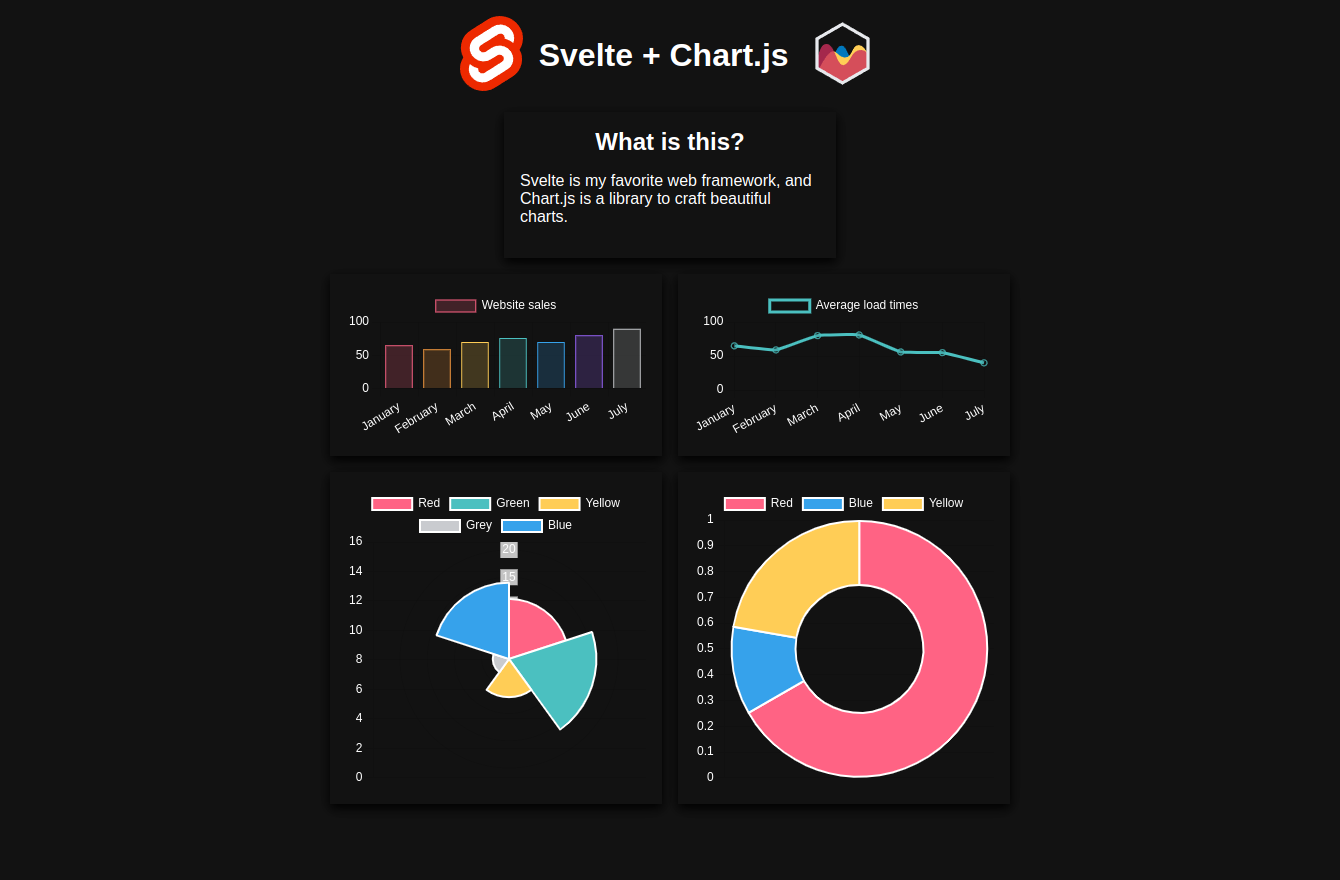
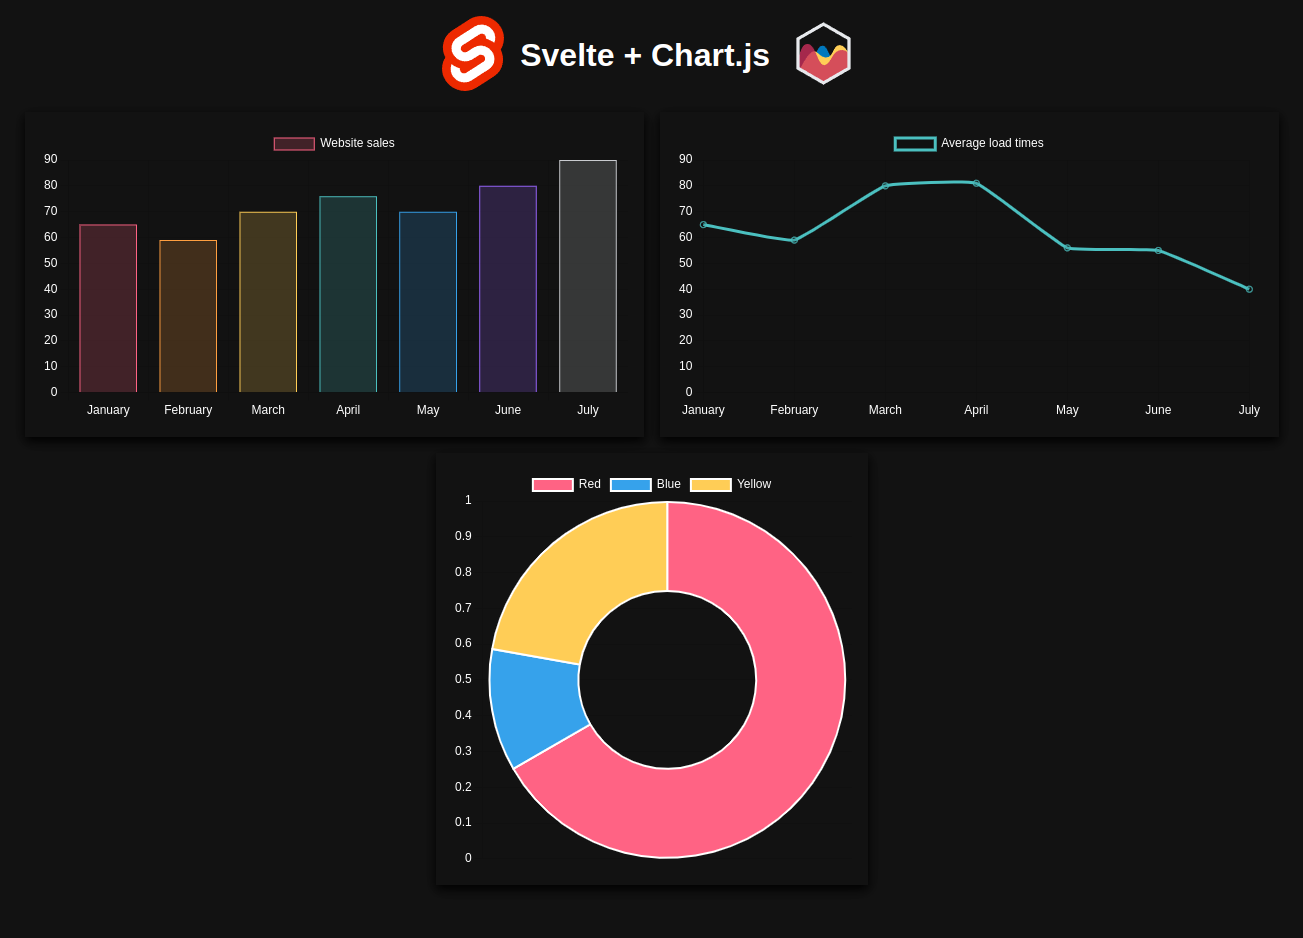
Reduce text and increase size of chartjs graphs

diff --git a/svelte-chartjs/src/routes/+page.svelte b/svelte-chartjs/src/routes/+page.svelte
@@ -3,19 +3,22 @@
 	import chartjs from './chartjs-logo.svg';
 	import { Chart, type ChartItem, LinearScale, registerables } from 'chart.js';
 	import { onMount } from 'svelte';
+	Chart.register(...registerables);
+	Chart.defaults.color = 'white';
 
 	let barChart: HTMLCanvasElement;
 	let lineChart: HTMLCanvasElement;
 	let doughnutChart: HTMLCanvasElement;
-	let polarChart: HTMLCanvasElement;
 
 	onMount(() => {
-		Chart.register(...registerables);
-		Chart.defaults.color = 'white';
-
 		const labels = ['January', 'February', 'March', 'April', 'May', 'June', 'July'];
 
-		new Chart(barChart, {
+		const barContext = barChart.getContext('2d');
+		const lineContext = lineChart.getContext('2d');
+		const doughnutContext = doughnutChart.getContext('2d');
+		if (!barContext || !lineContext || !doughnutContext) return;
+
+		new Chart(barContext, {
 			type: 'bar',
 			data: {
 				labels,
@@ -54,7 +57,7 @@
 			}
 		});
 
-		new Chart(lineChart, {
+		new Chart(lineContext, {
 			type: 'line',
 			data: {
 				labels: labels,
@@ -77,7 +80,7 @@
 			}
 		});
 
-		new Chart(doughnutChart, {
+		new Chart(doughnutContext, {
 			type: 'doughnut',
 			data: {
 				labels: ['Red', 'Blue', 'Yellow'],
@@ -98,33 +101,6 @@
 				}
 			}
 		});
-
-		new Chart(polarChart, {
-			type: 'polarArea',
-			data: {
-				labels: ['Red', 'Green', 'Yellow', 'Grey', 'Blue'],
-				datasets: [
-					{
-						label: 'My First Dataset',
-						data: [11, 16, 7, 3, 14],
-						backgroundColor: [
-							'rgb(255, 99, 132)',
-							'rgb(75, 192, 192)',
-							'rgb(255, 205, 86)',
-							'rgb(201, 203, 207)',
-							'rgb(54, 162, 235)'
-						]
-					}
-				]
-			},
-			options: {
-				scales: {
-					y: {
-						beginAtZero: true
-					}
-				}
-			}
-		});
 	});
 </script>
 
@@ -134,24 +110,17 @@
 		<h1>Svelte + Chart.js</h1>
 		<img src={chartjs} alt="Chart.js logo" height="75" />
 	</header>
-	<div class="card">
-		<h2>What is this?</h2>
-		<p>Svelte is my favorite web framework, and Chart.js is a library to craft beautiful charts.</p>
-	</div>
 
 	<div class="charts">
-		<div class="card">
+		<div class="card bar">
 			<canvas bind:this={barChart} />
 		</div>
-		<div class="card">
+		<div class="card bar">
 			<canvas bind:this={lineChart} />
 		</div>
 	</div>
 
 	<div class="charts">
-		<div class="card">
-			<canvas bind:this={polarChart} />
-		</div>
 		<div class="card">
 			<canvas bind:this={doughnutChart} />
 		</div>
@@ -163,16 +132,13 @@
 		font-family: 'Helvetica Neue', 'Helvetica', 'Arial', sans-serif;
 	}
 
-	h2 {
-		margin: 0;
-	}
-
 	main {
 		gap: 16px;
 		margin: 16px;
 		display: flex;
 		flex-direction: column;
 		align-items: center;
+		height: 100%;
 	}
 
 	header {
@@ -181,7 +147,6 @@
 	}
 
 	.card {
-		width: 300px;
 		padding: 1em;
 		display: grid;
 		align-items: center;
